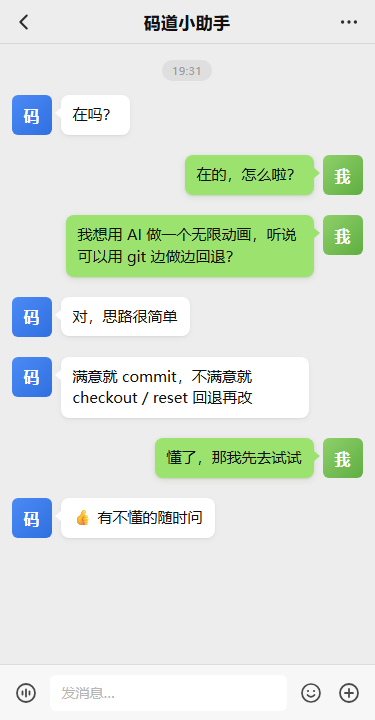
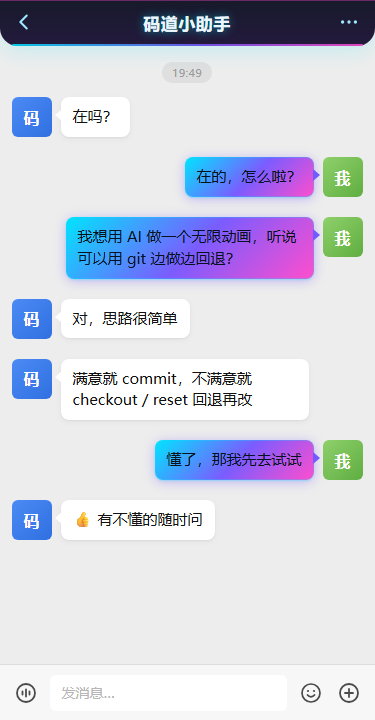
feat: 霓虹渐变气泡 + 赛博朋克标题栏

diff --git a/index.html b/index.html
@@ -8,8 +8,11 @@
   * { margin: 0; padding: 0; box-sizing: border-box; -webkit-tap-highlight-color: transparent; }
 
   :root {
-    --me-green: #9be36e;        /* 比 #95ec69 柔和一点 */
+    --me-green: #9be36e;        /* 旧版绿色，保留备用 */
     --me-green-deep: #86d15c;
+    /* 霓虹渐变：青 → 紫 → 品红 */
+    --neon-grad: linear-gradient(135deg, #00e5ff 0%, #7b5cff 52%, #ff4ecd 100%);
+    --neon-tail: #6f5bff;       /* 小尾巴取渐变中段的颜色 */
   }
 
   html, body { height: 100%; }
@@ -44,22 +47,36 @@
     }
   }
 
-  /* ---------- 标题栏 ---------- */
+  /* ---------- 标题栏（赛博朋克风） ---------- */
   .navbar {
     position: relative;
-    flex: 0 0 44px;
+    flex: 0 0 46px;
     display: flex;
     align-items: center;
     justify-content: center;
-    background: #ededed;
-    border-bottom: 1px solid #d8d8d8;
+    background: linear-gradient(180deg, #171a2b 0%, #241a3d 100%);
+    border-radius: 0 0 18px 18px;
+    box-shadow: 0 6px 20px rgba(0, 229, 255, .16), 0 1px 0 rgba(255, 78, 205, .35) inset;
     z-index: 2;
+  }
+  /* 底部一条霓虹渐变细线 */
+  .navbar::after {
+    content: "";
+    position: absolute;
+    left: 12px;
+    right: 12px;
+    bottom: 0;
+    height: 2px;
+    border-radius: 2px;
+    background: linear-gradient(90deg, #00e5ff, #7b5cff 55%, #ff4ecd);
+    opacity: .85;
   }
   .navbar .title {
     font-size: 17px;
     font-weight: 600;
-    color: #101010;
-    letter-spacing: .3px;
+    color: #eaf6ff;
+    letter-spacing: .5px;
+    text-shadow: 0 0 10px rgba(0, 229, 255, .55);
   }
   .navbar .back,
   .navbar .more {
@@ -70,7 +87,7 @@
     justify-content: center;
     width: 36px;
     height: 36px;
-    color: #2c2c2c;
+    color: #9fe8ff;
   }
   .navbar .back { left: 6px; }
   .navbar .more { right: 8px; }
@@ -139,8 +156,11 @@
     animation: bubble-in .26s cubic-bezier(.2, .9, .3, 1) both;
   }
   .msg.me .bubble {
-    background: var(--me-green);     /* 我：柔和一点的微信绿 */
-    box-shadow: 0 1px 2px rgba(70, 120, 40, .16), 0 2px 7px rgba(70, 120, 40, .12);
+    background: var(--neon-grad);    /* 我：霓虹渐变 */
+    color: #06131f;
+    box-shadow: 0 1px 2px rgba(0, 229, 255, .30),
+                0 2px 12px rgba(123, 92, 255, .38),
+                0 0 0 1px rgba(0, 229, 255, .25) inset;
   }
 
   /* 气泡朝向头像的小尾巴 */
@@ -159,7 +179,7 @@
   }
   .msg.me .bubble::before {
     right: -6px;
-    border-left: 7px solid var(--me-green);
+    border-left: 7px solid var(--neon-tail);
   }
 
   @keyframes bubble-in {
